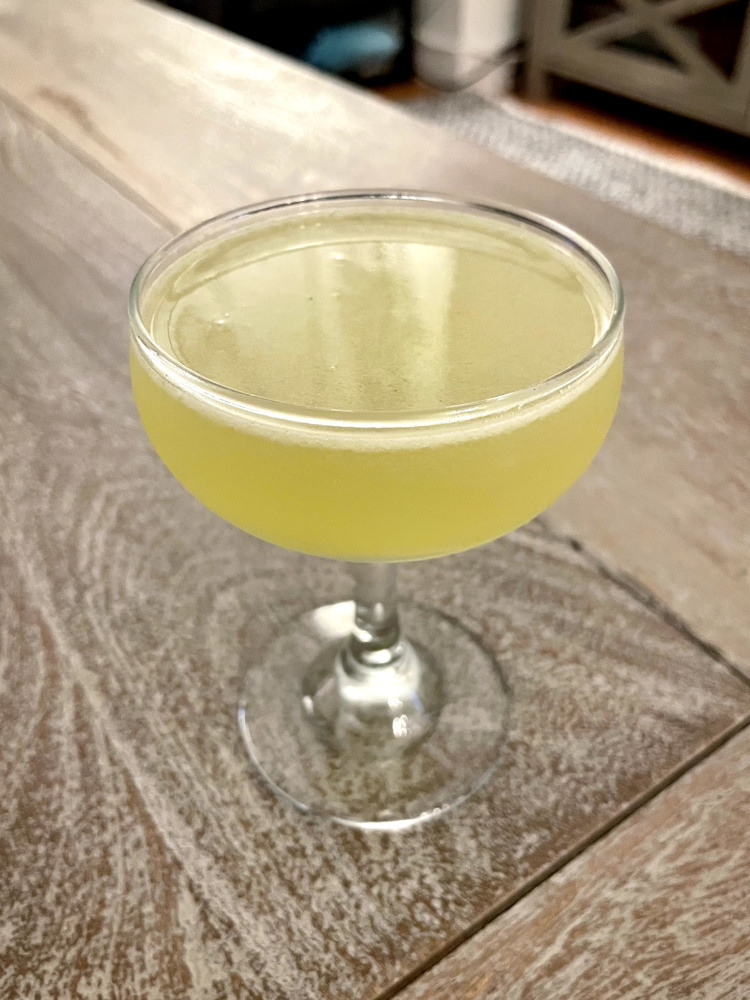
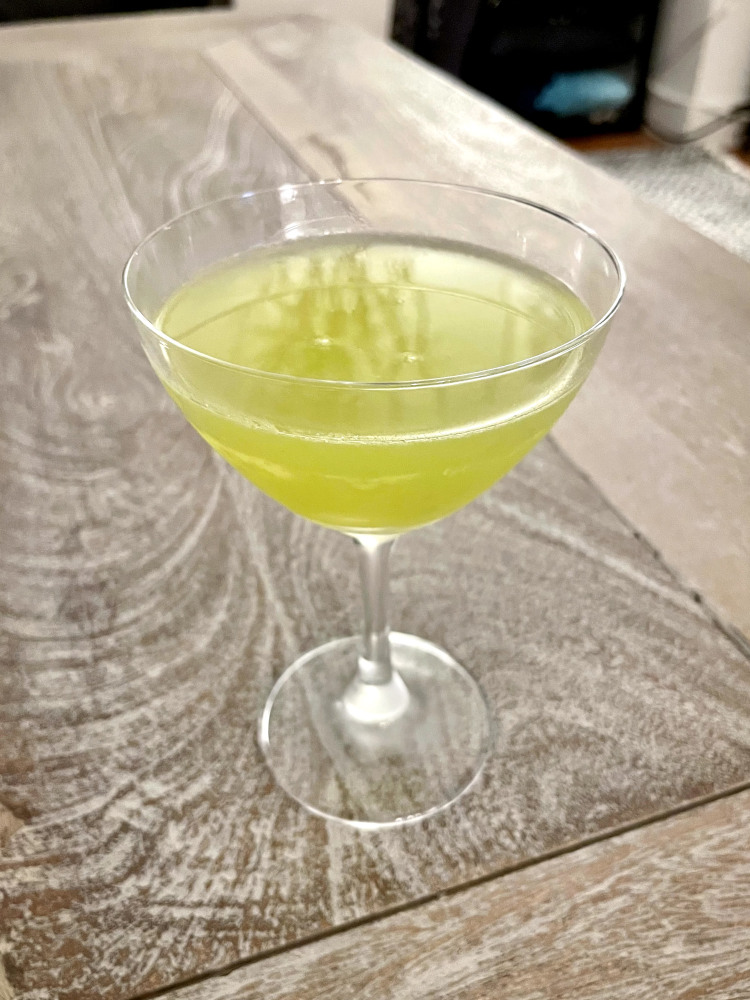
search now covers ingredients and recipe names, search moved to new nav bar, updated pearl of puebla image

diff --git a/src/Search.js b/src/Search.js
@@ -1,0 +1,116 @@
+import React, {useEffect, useRef, useState} from 'react';
+import './Search.css';
+
+import IngredientIcon from '@material-ui/icons/FilterList';
+import RecipeIcon from '@material-ui/icons/LocalBar';
+import SearchIcon from '@material-ui/icons/Search';
+
+const MATCH_TYPES = {
+  INGREDIENT: 'ingredient',
+  RECIPE: 'recipe'
+};
+
+const Search = ({
+  availableIngredients,
+  onSelectIngredient,
+  onSelectRecipe,
+  recipes,
+  selectedTags
+}) => {
+  const [matchType, setMatchType] = useState(null);
+  const [searchTerms, setSearchTerms] = useState([]);
+  const [selection, setSelection] = useState(null);
+  const [value, setValue] = useState('');
+  const inputRef = useRef(null);
+
+  // update available search terms whenever the ingredients, recipes, or selected tags change
+  useEffect(() => {
+    const unselectedIngredients = availableIngredients.filter(ingredient => !selectedTags.find(item => ingredient === item.tag));
+    const ingredientTerms = unselectedIngredients.map(ingredient => ({
+      term: ingredient,
+      id: null
+    }));
+    const recipeTerms = recipes.map(recipe => ({
+      term: recipe.name.toLowerCase(),
+      id: recipe.id
+    }));
+    setSearchTerms(ingredientTerms.concat(recipeTerms).sort((a, b) => a.term.localeCompare(b.term)));
+  }, [availableIngredients, recipes, selectedTags]);
+
+  useEffect(() => {
+    if (selection && inputRef && inputRef.current) {
+      const [start, end] = selection;
+      inputRef.current.focus();
+      inputRef.current.setSelectionRange(start, end);
+    }
+  }, [selection]);
+
+  const handleChange = e => {
+    let val = e.target.value.toLowerCase().replace(/[^a-z\s]/g, '');
+    let newSelection = null;
+
+    const prevVal = selection ? value.substr(0, selection[0]) : value;
+    const hasTypedMore = val.length > prevVal.length;
+
+    if (val && hasTypedMore) {
+      const firstMatch = searchTerms.find(item => item.term.startsWith(val));
+      if (firstMatch) {
+        newSelection = [val.length, firstMatch.term.length];
+        val = firstMatch.term;
+
+        const newMatchType = firstMatch.id ? MATCH_TYPES.RECIPE : MATCH_TYPES.INGREDIENT;
+        if (matchType !== newMatchType) {
+          setMatchType(newMatchType);
+        }
+      } else if (matchType) {
+        setMatchType(null);
+      }
+    } else if (matchType) {
+      setMatchType(null);
+    }
+
+    setValue(val);
+    setSelection(newSelection);
+  };
+
+  const handleSubmit = e => {
+    e.preventDefault();
+    const result = searchTerms.find(item => item.term === value);
+
+    if (result) {
+      if (result.id) {
+        onSelectRecipe(result.id);
+      } else {
+        onSelectIngredient(value);
+      }
+
+      setValue('');
+      setSelection(null);
+      setMatchType(null);
+    }
+  };
+
+  return (
+    <form className="Search" onSubmit={handleSubmit}>
+      <input
+        autoComplete="off"
+        className="Search-input"
+        id="Search-input"
+        placeholder="Find recipes by name or ingredients"
+        onChange={handleChange}
+        ref={inputRef}
+        type="text"
+        value={value}
+      />
+      <div className="Search-icon">
+        {matchType === MATCH_TYPES.INGREDIENT
+          ? <IngredientIcon />
+          : matchType === MATCH_TYPES.RECIPE
+            ? <RecipeIcon />
+            : <SearchIcon />}
+      </div>
+    </form>
+  );
+};
+
+export default Search;

diff --git a/src/App.js b/src/App.js
@@ -30,8 +30,8 @@ import RAW_RECIPES from './data/recipes';
 import ActiveFilters from './ActiveFilters';
 import CategoryPicker from './CategoryPicker';
 import IngredientFilterButtonList from './IngredientFilterButtonList';
-import IngredientSearch from './IngredientSearch';
 import InventoryViewControl from './InventoryViewControl';
+import NavBar from './NavBar';
 import Recipe from './Recipe';
 import RecipeList from './RecipeList';
 import RecipeModal from './RecipeModal';
@@ -52,10 +52,6 @@ const nonalcoholicByFrequency = determineNonalcoholicByFrequency(availableIngred
 // --> more herbal [recipe]
 // --> more citrus [recipe]
 // citrus, sweet, herbal, bitter, tart, spicy
-
-// out of stock / stock status
-// keep a running tally of what i can make, use that to quickly find drinks for people when they come over
-// php / mysql simple
 
 // also use it for a random top featured recommendation?
 
@@ -166,16 +162,19 @@ function App() {
   };
 
   const handleGlobalKeyDown = e => {
-    // clear filters when escape key is hit
+    // clear filters when escape key is hit (if a recipe isn't open)
     if (e.keyCode === 27) {
-      setSelectedTags(prevState => {
-        if (prevState.length > 0) {
-          updateVisibleRecipes([], recipes.list, recipeTagMap);
-          return [];
-        } else {
-          return prevState;
-        }
-      });
+      const recipeIsOpen = document.getElementsByClassName('RecipeModal').length > 0 || document.getElementsByClassName('Recipe').length > 0;
+      if (!recipeIsOpen) {
+        setSelectedTags(prevState => {
+          if (prevState.length > 0) {
+            updateVisibleRecipes([], recipes.list, recipeTagMap);
+            return [];
+          } else {
+            return prevState;
+          }
+        });
+      }
     }
   };
 
@@ -271,12 +270,15 @@ function App() {
 
   return (
     <>
+      <NavBar
+        availableIngredients={availableIngredients}
+        onSelectIngredient={handleSelectTag}
+        onSelectRecipe={handleClickRecipe}
+        recipes={recipes.list}
+        selectedTags={selectedTags}
+      />
       <div className="BrowseLayout">
         <div className="FilterPane">
-          <IngredientSearch
-            availableIngredients={availableIngredients}
-            onSelectIngredient={handleSelectTag}
-          />
           <InventoryViewControl
             activeInventoryView={activeInventoryView}
             isInventoryLoaded={!!inventory}

diff --git a/src/Search.css b/src/Search.css
@@ -1,0 +1,41 @@
+.Search {
+  position: relative;
+  width: 100%;
+}
+.Search-label {
+  font-size: 14px;
+  font-weight: 500;
+}
+.Search-input {
+  border: none;
+  border-radius: 8px;
+  font-family: 'Hind', sans-serif;
+  font-size: 16px;
+  padding: 4px 28px 4px 12px;
+  width: 100%;
+}
+.Search-input::placeholder {
+  color: #5C8E89;
+}
+.Search-input:focus {
+  box-shadow: 0 0 0 1px #2F4858, 0 0 0 2px #BED2A8;
+  outline: none;
+}
+.Search-icon {
+  color: #2F4858;
+}
+.Search .MuiSvgIcon-root {
+  position: absolute;
+  right: 4px;
+  top: 50%;
+  transform: translateY(-50%);
+}
+
+@media (min-width: 768px) {
+  .Search {
+    width: auto;
+  }
+  .Search-input {
+    width: 320px;
+  }
+}

diff --git a/src/NavBar.css b/src/NavBar.css
@@ -1,0 +1,30 @@
+.NavBar {
+  align-items: center;
+  background-color: #2F4858;
+  border-bottom: 1px solid #5C8E89;
+  display: flex;
+  flex-flow: row nowrap;
+  height: 50px;
+  left: 0;
+  padding: 0 20px;
+  position: fixed;
+  right: 0;
+  top: 0;
+  z-index: 30;
+}
+.NavBar::after {
+  background: linear-gradient(to bottom, rgba(255, 255, 255, 0.7), transparent);
+  bottom: -21px;
+  height: 20px;
+  left: 0;
+  content: '';
+  pointer-events: none;
+  position: absolute;
+  right: 0;
+}
+
+@media (min-width: 1024px) {
+  .NavBar {
+    padding: 0 60px;
+  }
+}

diff --git a/src/NavBar.js b/src/NavBar.js
@@ -1,0 +1,26 @@
+import React from 'react';
+import './NavBar.css';
+
+import Search from './Search';
+
+const NavBar = ({
+  availableIngredients,
+  onSelectIngredient,
+  onSelectRecipe,
+  recipes,
+  selectedTags
+}) => {
+  return (
+    <div className="NavBar">
+      <Search
+        availableIngredients={availableIngredients}
+        onSelectIngredient={onSelectIngredient}
+        onSelectRecipe={onSelectRecipe}
+        recipes={recipes}
+        selectedTags={selectedTags}
+      />
+    </div>
+  );
+};
+
+export default NavBar;

diff --git a/src/App.css b/src/App.css
@@ -19,6 +19,7 @@ body {
 .BrowseLayout {
   display: flex;
   flex-flow: column nowrap;
+  margin-top: 30px;
   padding: 20px;
 }
 .FilterPane {
@@ -28,7 +29,8 @@ body {
 @media (min-width: 1024px) {
   .BrowseLayout {
     flex-flow: row nowrap;
-    padding: 60px;
+    margin-top: 50px;
+    padding: 20px 60px 60px;
   }
   .FilterPane {
     border-right: 2px solid #5C8E89;

diff --git a/src/InventoryViewControl.css b/src/InventoryViewControl.css
@@ -23,7 +23,7 @@
   width: 100%;
 }
 .InventoryViewControl .MuiFormLabel-root.Mui-focused + .MuiFormGroup-row {
-  box-shadow: 0 0 0 1px #BED2A8;
+  box-shadow: 0 0 0 1px #FFF, 0 0 0 2px #BED2A8;
 }
 .InventoryViewControl .MuiFormControlLabel-root {
   flex-grow: 1;
